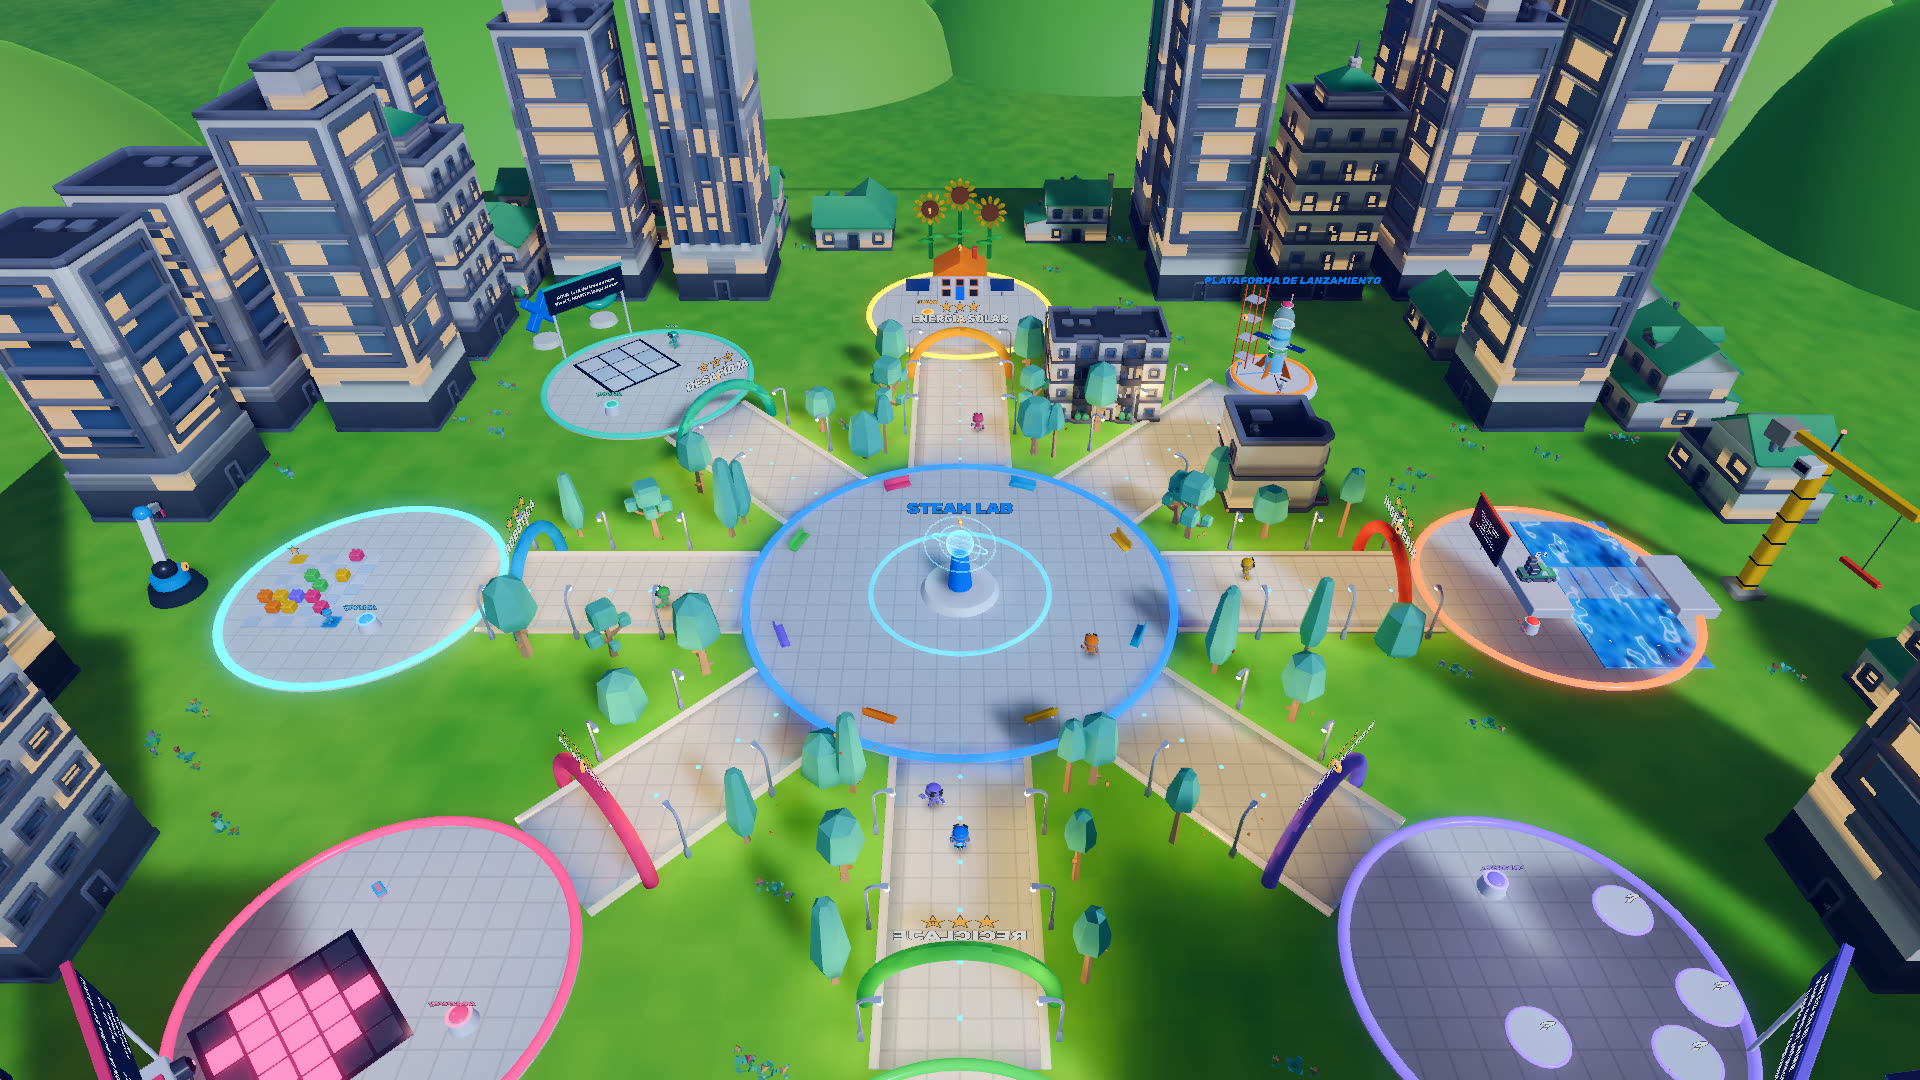
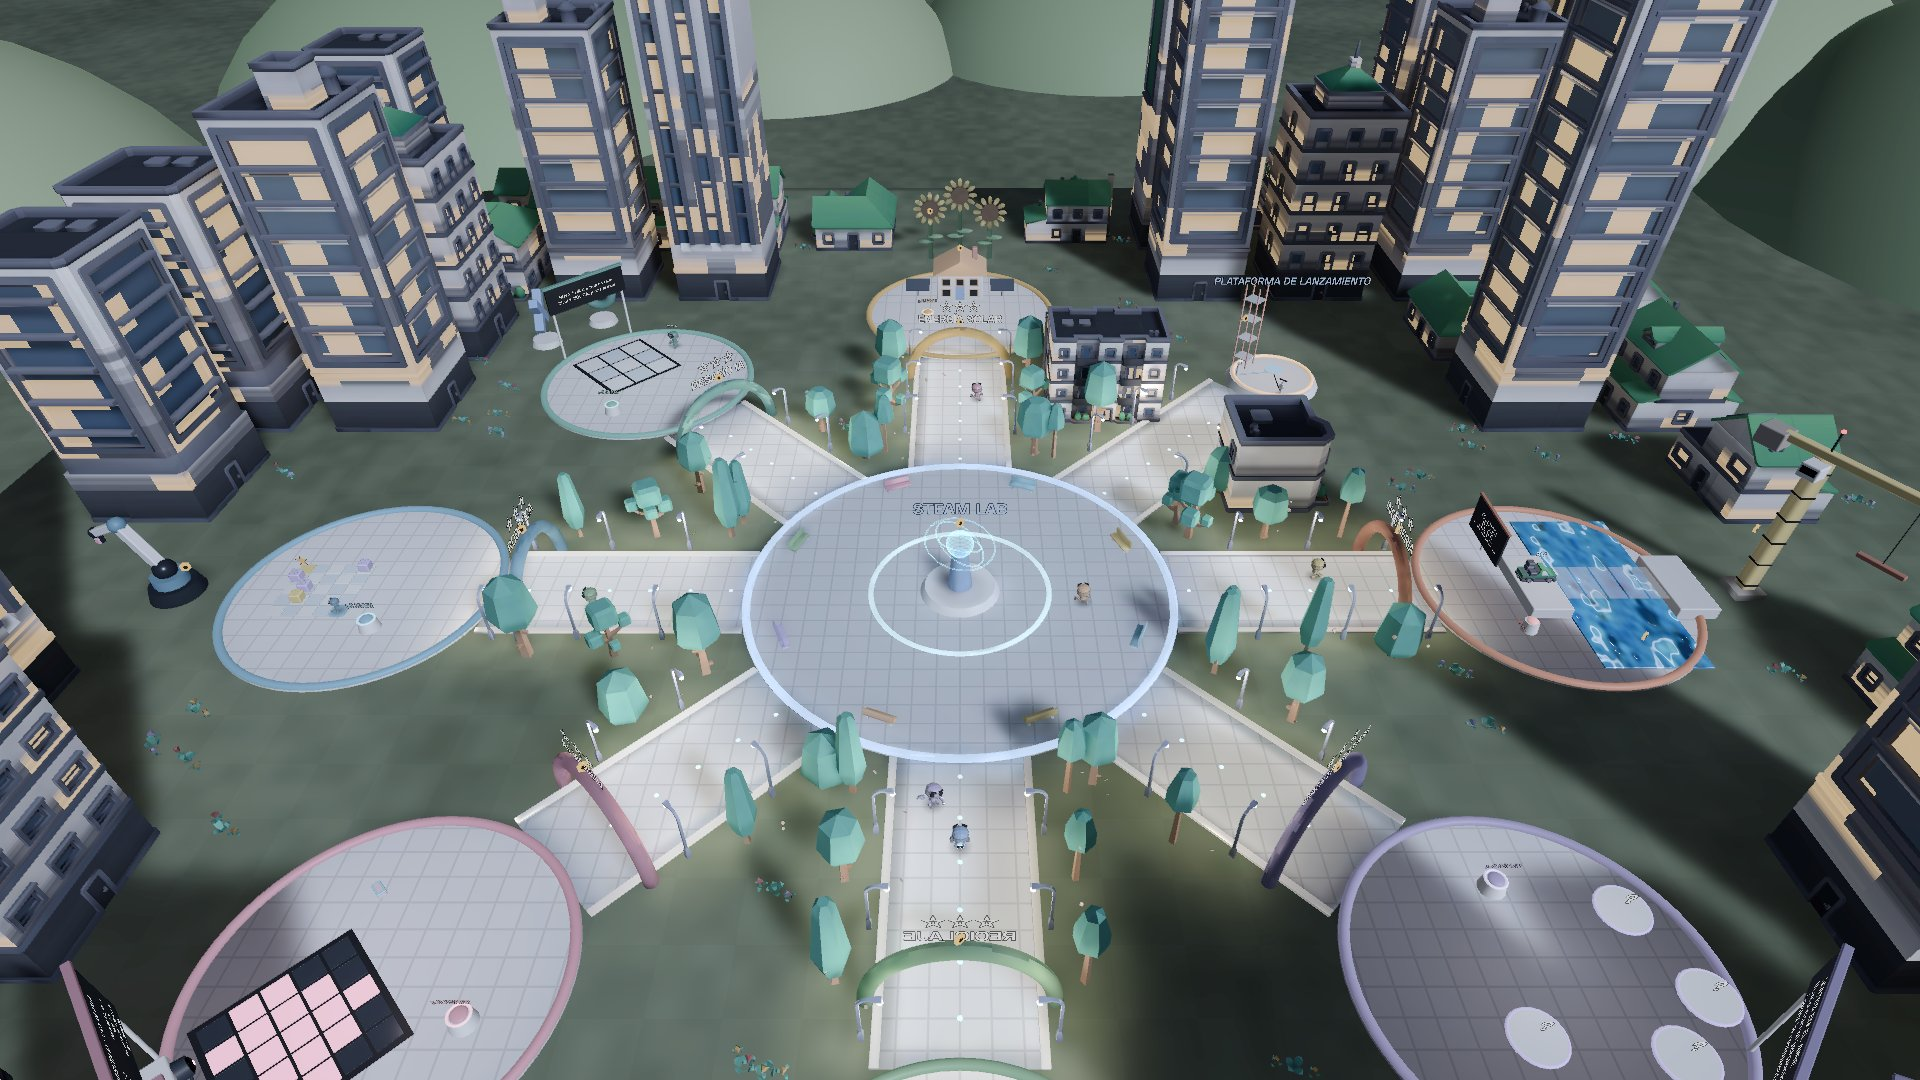
README v1.5: capturas nuevas, minimapa y estilo

diff --git a/README.md b/README.md
@@ -1,6 +1,6 @@
 <div align="center">
 
-<img src=".github/screenshots/ciudad.jpg" alt="Vista aérea de Ciudad STEAM: la plaza con el holograma del STEAM LAB y los siete distritos de colores" width="100%">
+<img src=".github/screenshots/ciudad.jpg" alt="Vista aérea de Ciudad STEAM: la plaza con el holograma del STEAM LAB y los siete distritos, en tonos suaves" width="100%">
 
 # Ciudad STEAM
 
@@ -9,10 +9,10 @@ arma un cohete de agua con ellas y viaja a la Luna.**
 
 ![Godot 4.7](https://img.shields.io/badge/Godot-4.7-478CBF?logo=godotengine&logoColor=white)
 ![Windows y Linux](https://img.shields.io/badge/Windows%20%C2%B7%20Linux-listo%20para%20jugar-2ea44f)
-![Mando](https://img.shields.io/badge/mando-compatible-ff8c1a)
-![Versión 1.1](https://img.shields.io/badge/versi%C3%B3n-1.1-9b6bff)
+![Mando](https://img.shields.io/badge/mando-compatible-555555)
+![Versión 1.5](https://img.shields.io/badge/versi%C3%B3n-1.5-ff454e)
 
-[**Descargar**](../../releases/latest) · [Los retos](#los-retos) · [Controles](#controles) · [Desde el código](#desde-el-código)
+[**Descargar**](../../releases/latest) · [Los retos](#los-retos) · [Minimapa y objetivos](#minimapa-y-objetivos) · [Controles](#controles) · [Desde el código](#desde-el-código)
 
 </div>
 
@@ -20,7 +20,7 @@ arma un cohete de agua con ellas y viaja a la Luna.**
 
 ## La historia
 
-Llegas a una ciudad de juguete, de noche y llena de luces, con un STEAM LAB holográfico en el centro. Cada reto
+Llegas a una ciudad de noche, con un STEAM LAB holográfico en el centro. Cada reto
 que superas te da hasta tres estrellas, y cada estrella es una **pieza de un cohete de agua**. Con las doce piezas,
 llenas el cohete de agua, bombeas aire y despegas hacia la **Luna**. Allí no hay ríos ni lluvia, así que para
 volver tendrás que encontrar hielo en los cráteres, dar energía a la base y purificar el agua.
@@ -49,20 +49,45 @@ un certificado STEAM al completar el cohete y otro de astronauta al volver de la
 
 <table>
   <tr>
-    <td width="50%"><img src=".github/screenshots/cohete.jpg" alt="La plataforma de lanzamiento con el cohete de agua y su torre de andamios"></td>
-    <td width="50%"><img src=".github/screenshots/robotica.jpg" alt="El tablero del reto de Robótica con bloques de colores y un brazo robótico"></td>
+    <td width="50%"><img src=".github/screenshots/interfaz.jpg" alt="El jugador en la calle hacia el STEAM LAB, con el minimapa y la lista de objetivos a la derecha"></td>
+    <td width="50%"><img src=".github/screenshots/steamlab.jpg" alt="El menú del STEAM LAB: ocho tarjetas oscuras, una por reto, con un filete fino del color de cada uno"></td>
+  </tr>
+  <tr>
+    <td align="center"><sub>Minimapa y objetivos siempre a la vista</sub></td>
+    <td align="center"><sub>El STEAM LAB te lleva a cualquier reto</sub></td>
+  </tr>
+  <tr>
+    <td width="50%"><img src=".github/screenshots/solar.jpg" alt="Una pregunta del reto de Energía solar con cuatro respuestas"></td>
+    <td width="50%"><img src=".github/screenshots/robotica.jpg" alt="El reto de Robótica: panel de programación y tablero con bloques"></td>
+  </tr>
+  <tr>
+    <td align="center"><sub>Energía solar</sub></td>
+    <td align="center"><sub>Robótica</sub></td>
+  </tr>
+  <tr>
+    <td width="50%"><img src=".github/screenshots/cohete.jpg" alt="La plataforma de lanzamiento del cohete de agua, aún sin piezas"></td>
+    <td width="50%"><img src=".github/screenshots/luna.jpg" alt="La Luna: la base lunar con el cohete y las balizas hacia los retos"></td>
   </tr>
   <tr>
     <td align="center"><sub>La plataforma del cohete de agua</sub></td>
-    <td align="center"><sub>El reto de Robótica</sub></td>
-  </tr>
-  <tr>
-    <td colspan="2"><img src=".github/screenshots/luna.jpg" alt="La Luna: el cohete aterrizado, la base lunar y la Tierra en el cielo"></td>
-  </tr>
-  <tr>
-    <td colspan="2" align="center"><sub>La base lunar, con la Tierra en el cielo</sub></td>
+    <td align="center"><sub>La base lunar</sub></td>
   </tr>
 </table>
+
+## Minimapa y objetivos
+
+- Arriba a la derecha, un **minimapa** sigue al jugador (el triángulo blanco gira con la cámara). Muestra cada reto
+  con sus estrellas, el cohete, el STEAM LAB y las tuercas doradas que te faltan.
+- El **siguiente objetivo** de la historia lleva un anillo rojo; si está fuera del mapa, una flecha roja en el
+  borde te dice hacia dónde ir.
+- Debajo, la sección **OBJETIVO** explica qué toca hacer y lista los retos con sus estrellas, las piezas del
+  cohete y las tuercas.
+
+## Estilo
+
+Interfaz oscura y monocroma con un solo acento rojo (para el foco y el objetivo), bordes finos y movimiento corto,
+siguiendo un sistema de diseño propio inspirado en Nothing (no oficial). El mundo 3D usa tonos neutros y cada reto
+conserva un color propio discreto. Tipografías: Space Grotesk, Inter Tight, Space Mono y Doto.
 
 ## Controles
 
